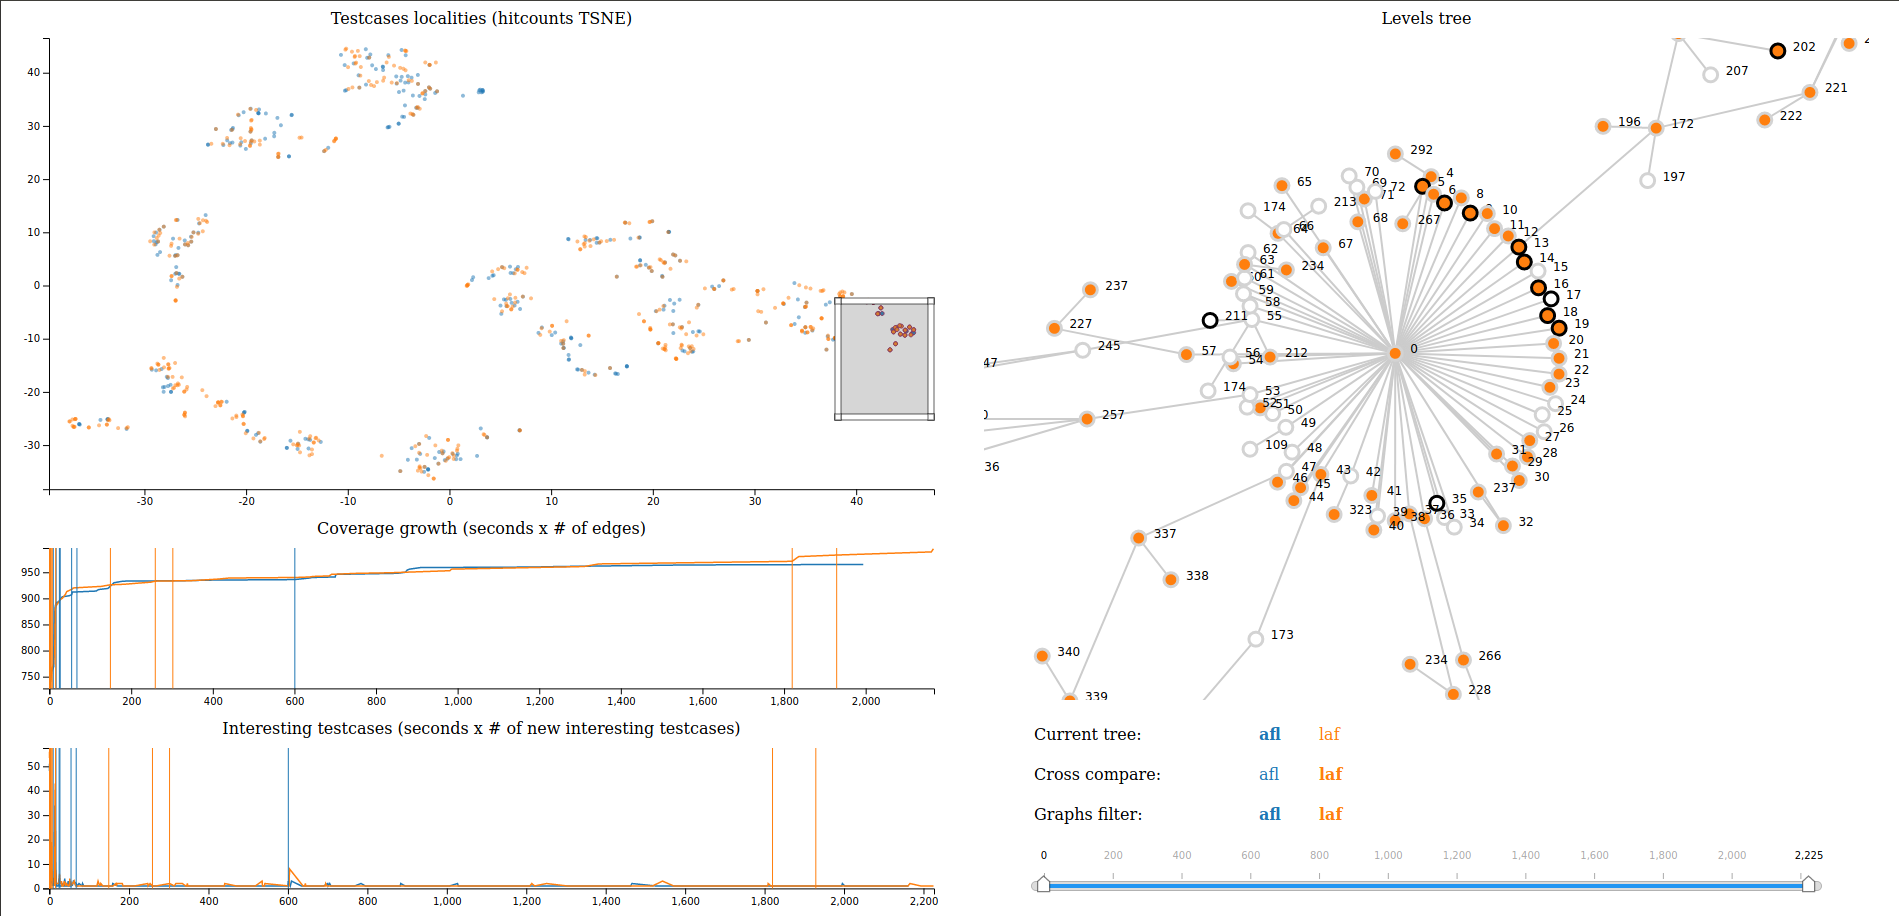
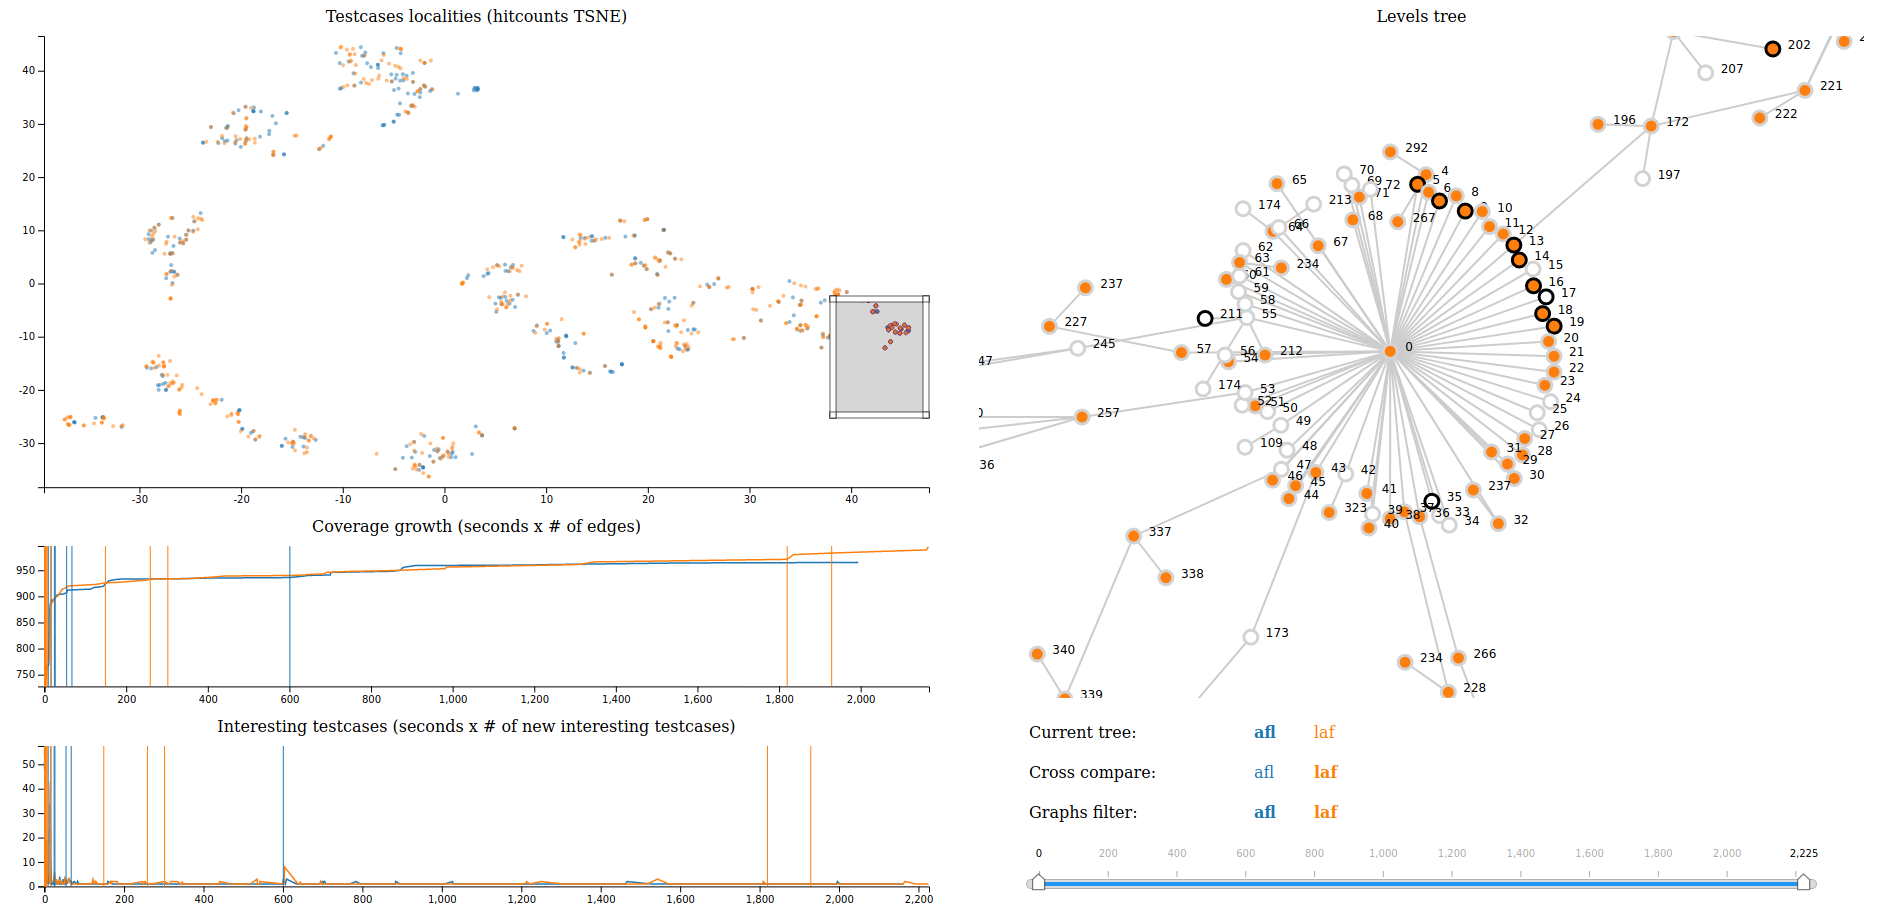
restore css spaccato

diff --git a/web/css/index.css b/web/css/index.css
@@ -34,7 +34,6 @@ html, body {
   position: absolute;
   top: 0;
   left: 0;
-  margin-top: 10px;
 }
 
 #scatterplot {
@@ -42,9 +41,6 @@ html, body {
   width: 100%;
   min-height: calc(60% - 50px);
   height: calc(60% - 50px);
-  border: 2px solid gray;
-  margin-right: 20px;
-  margin-bottom: 10px;
 }
 
 #coverage {
@@ -52,10 +48,6 @@ html, body {
   width: 100%;
   min-height: calc(20% - 0px);
   height: calc(20% - 0px);
-  border: 2px solid gray;
-  margin-right: 20px;
-  margin-top: 10px;
-  margin-bottom: 10px;
 }
 
 #inputs {
@@ -63,9 +55,6 @@ html, body {
   width: 100%;
   min-height: calc(20% - 0px);
   height: calc(20% - 0px);
-  border: 2px solid gray;
-  margin-right: 20px;
-  margin-top: 10px;
 }
 
 #legend {
@@ -76,7 +65,6 @@ html, body {
 }
 
 #graph_select {
-  margin-top: 10px;
   float: left;
   width: 100%;
   min-height: 40px;
@@ -95,8 +83,6 @@ html, body {
   width: 100%;
   min-height: calc(100% - 100px - 40px - 40px - 40px - 10px);
   height: calc(100% - 100px - 40px - 40px - 40px - 10px);
-  border: 2px solid gray;
-  margin-left: 20px;
 }
 
 #timeline {
@@ -107,7 +93,6 @@ html, body {
 }
 
 .two_bottom {
-  border: 2px solid gray;
   margin-left: 20px;
   margin-top: 10px;
 }
